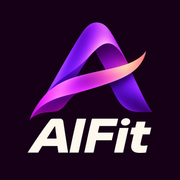
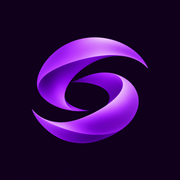
Use an abstract purple motion symbol for AIFit

diff --git a/components/layout/app-shell.tsx b/components/layout/app-shell.tsx
@@ -9,5 +9,5 @@ const icons = { assistant: Sparkles, home: Home, food: Utensils, meals: Calendar
 export function AppShell({ children }: { children: React.ReactNode }) {
   const pathname = usePathname();
   function navLink(item: typeof navigation[number], mobile = false) { const Icon = icons[item.icon]; return <Link key={item.href} href={item.href} className={mobile ? 'shell-mobile-link' : 'shell-nav-link'} aria-current={isActiveRoute(pathname, item.href) ? 'page' : undefined}><Icon size={19} aria-hidden="true"/><span>{mobile && item.href === '/workouts' ? 'Workouts' : item.label}</span>{!mobile && <ChevronRight size={14} className="nav-arrow"/>}</Link>; }
-  return <div className="workspace"><a className="skip-link" href="#main-content">Skip to content</a><aside className="shell-sidebar"><Link href="/" className="shell-brand"><span><Image className="brand-mark" src="/icon-192.png?v=aift-ribbon-6" width={35} height={35} alt="" unoptimized/></span>AIFit <b>AiFT</b></Link><p className="shell-overline">YOUR WORKSPACE</p><nav aria-label="Main navigation">{navigation.map(item => navLink(item))}</nav><div className="shell-sidebar-note"><span className="shell-overline">BUILT FOR CONSISTENCY</span><h2>Your pace.<br/>Your progress.</h2><p>A space for the small things that add up.</p><Link href="/onboarding">Your starting point <ArrowUpRight size={16}/></Link></div><Link className="shell-profile" href="/settings"><span>ME</span><div><strong>Your fitness journey</strong><small>Personal workspace</small></div><Settings2 size={16}/></Link></aside><div className="shell-body"><header className="shell-header"><Link className="shell-mobile-brand" href="/"><Image className="brand-mark" src="/icon-192.png?v=aift-ribbon-6" width={32} height={32} alt="" unoptimized/> AIFit <b>AiFT</b></Link><span className="shell-breadcrumb">Workspace <ChevronRight size={13}/><strong>{pageLabel(pathname)}</strong></span><div className="shell-header-actions"><Link href="/assistant" className="shell-icon" aria-label="AI assistant"><Sparkles size={19}/></Link><span className="shell-local-status"><i/> Browser storage</span><ThemeToggle/><Link href="/auth" className="shell-icon" aria-label="Sign in"><LogIn size={19}/></Link></div></header><main id="main-content" className="shell-main" tabIndex={-1}>{children}</main><footer className="shell-footer"><span>AIFit</span><span>Train smarter. Fuel better.</span></footer></div><nav className="shell-mobile-nav" aria-label="Mobile navigation">{mobileNavigation.map(item => navLink(item, true))}</nav></div>;
+  return <div className="workspace"><a className="skip-link" href="#main-content">Skip to content</a><aside className="shell-sidebar"><Link href="/" className="shell-brand"><span><Image className="brand-mark" src="/icon-192.png?v=aift-motion-7" width={35} height={35} alt="" unoptimized/></span>AIFit <b>AiFT</b></Link><p className="shell-overline">YOUR WORKSPACE</p><nav aria-label="Main navigation">{navigation.map(item => navLink(item))}</nav><div className="shell-sidebar-note"><span className="shell-overline">BUILT FOR CONSISTENCY</span><h2>Your pace.<br/>Your progress.</h2><p>A space for the small things that add up.</p><Link href="/onboarding">Your starting point <ArrowUpRight size={16}/></Link></div><Link className="shell-profile" href="/settings"><span>ME</span><div><strong>Your fitness journey</strong><small>Personal workspace</small></div><Settings2 size={16}/></Link></aside><div className="shell-body"><header className="shell-header"><Link className="shell-mobile-brand" href="/"><Image className="brand-mark" src="/icon-192.png?v=aift-motion-7" width={32} height={32} alt="" unoptimized/> AIFit <b>AiFT</b></Link><span className="shell-breadcrumb">Workspace <ChevronRight size={13}/><strong>{pageLabel(pathname)}</strong></span><div className="shell-header-actions"><Link href="/assistant" className="shell-icon" aria-label="AI assistant"><Sparkles size={19}/></Link><span className="shell-local-status"><i/> Browser storage</span><ThemeToggle/><Link href="/auth" className="shell-icon" aria-label="Sign in"><LogIn size={19}/></Link></div></header><main id="main-content" className="shell-main" tabIndex={-1}>{children}</main><footer className="shell-footer"><span>AIFit</span><span>Train smarter. Fuel better.</span></footer></div><nav className="shell-mobile-nav" aria-label="Mobile navigation">{mobileNavigation.map(item => navLink(item, true))}</nav></div>;
 }

diff --git a/app/layout.tsx b/app/layout.tsx
@@ -2,7 +2,7 @@ import type { Metadata, Viewport } from 'next';
 import './globals.css';
 import { appearanceScript } from '@/lib/appearance';
 import { OfflineSupport } from '@/components/features/offline';
-export const metadata: Metadata = { title: { default:'AIFit · Train smarter. Fuel better.', template:'%s · AIFit' }, description:'Food, movement, and progress. Your personal fitness workspace.', appleWebApp:{capable:true,statusBarStyle:'default',title:'AiFT'}, icons:{icon:[{url:'/favicon-16x16.png?v=aift-ribbon-6',sizes:'16x16',type:'image/png'},{url:'/favicon-32x32.png?v=aift-ribbon-6',sizes:'32x32',type:'image/png'},{url:'/icon-512.png?v=aift-ribbon-6',sizes:'512x512',type:'image/png'}],apple:[{url:'/apple-touch-icon.png?v=aift-ribbon-6',sizes:'180x180',type:'image/png'}]} };
+export const metadata: Metadata = { title: { default:'AIFit · Train smarter. Fuel better.', template:'%s · AIFit' }, description:'Food, movement, and progress. Your personal fitness workspace.', appleWebApp:{capable:true,statusBarStyle:'default',title:'AiFT'}, icons:{icon:[{url:'/favicon-16x16.png?v=aift-motion-7',sizes:'16x16',type:'image/png'},{url:'/favicon-32x32.png?v=aift-motion-7',sizes:'32x32',type:'image/png'},{url:'/icon-512.png?v=aift-motion-7',sizes:'512x512',type:'image/png'}],apple:[{url:'/apple-touch-icon.png?v=aift-motion-7',sizes:'180x180',type:'image/png'}]} };
 export const viewport: Viewport = { width:'device-width',initialScale:1,viewportFit:'cover',themeColor:[{media:'(prefers-color-scheme: dark)',color:'#100c1a'},{media:'(prefers-color-scheme: light)',color:'#f7f4fc'}] };
 const themeScript = appearanceScript;
 export default function RootLayout({ children }: Readonly<{ children: React.ReactNode }>) { return <html lang="en" suppressHydrationWarning><head><script dangerouslySetInnerHTML={{__html:themeScript}}/></head><body>{children}<OfflineSupport/></body></html>; }

diff --git a/public/sw.js b/public/sw.js
@@ -1,8 +1,8 @@
 /* Public application shell only: account/auth/API responses are never cached. */
-const SHELL = 'fittrack-shell-20261105-ribbon-weekday-v12';
-const ASSETS = 'fittrack-assets-20261105-ribbon-weekday-v12';
+const SHELL = 'fittrack-shell-20261105-motion-v13';
+const ASSETS = 'fittrack-assets-20261105-motion-v13';
 const PAGES = ['/', '/food', '/meals', '/workouts', '/workouts/active', '/progress', '/settings', '/onboarding'];
-const PUBLIC_ASSETS = ['/offline.html', '/favicon.ico', '/favicon-16x16.png?v=aift-ribbon-6', '/favicon-32x32.png?v=aift-ribbon-6', '/icon-512.png?v=aift-ribbon-6', '/manifest.webmanifest', '/icon-192.png?v=aift-ribbon-6', '/icon-512.png?v=aift-ribbon-6', '/icon-maskable.png?v=aift-ribbon-6', '/apple-touch-icon.png?v=aift-ribbon-6'];
+const PUBLIC_ASSETS = ['/offline.html', '/favicon.ico', '/favicon-16x16.png?v=aift-motion-7', '/favicon-32x32.png?v=aift-motion-7', '/manifest.webmanifest', '/icon-192.png?v=aift-motion-7', '/icon-512.png?v=aift-motion-7', '/icon-maskable.png?v=aift-motion-7', '/apple-touch-icon.png?v=aift-motion-7'];
 self.addEventListener('install', event => {
   event.waitUntil(caches.open(SHELL).then(async cache => {
     await cache.addAll([...PAGES, ...PUBLIC_ASSETS]);

diff --git a/app/manifest.ts b/app/manifest.ts
@@ -1,8 +1,8 @@
 import type { MetadataRoute } from 'next';
 export default function manifest(): MetadataRoute.Manifest {
   return { id: '/', name: 'AIFit', short_name: 'AiFT', description: 'Food, workouts, and progress in your personal workspace', start_url: '/', scope: '/', display: 'standalone', background_color: '#100c1a', theme_color: '#100c1a', icons: [
-    { src: '/icon-192.png?v=aift-ribbon-6', sizes: '192x192', type: 'image/png', purpose: 'any' },
-    { src: '/icon-512.png?v=aift-ribbon-6', sizes: '512x512', type: 'image/png', purpose: 'any' },
-    { src: '/icon-maskable.png?v=aift-ribbon-6', sizes: '512x512', type: 'image/png', purpose: 'maskable' },
+    { src: '/icon-192.png?v=aift-motion-7', sizes: '192x192', type: 'image/png', purpose: 'any' },
+    { src: '/icon-512.png?v=aift-motion-7', sizes: '512x512', type: 'image/png', purpose: 'any' },
+    { src: '/icon-maskable.png?v=aift-motion-7', sizes: '512x512', type: 'image/png', purpose: 'maskable' },
   ] };
 }
